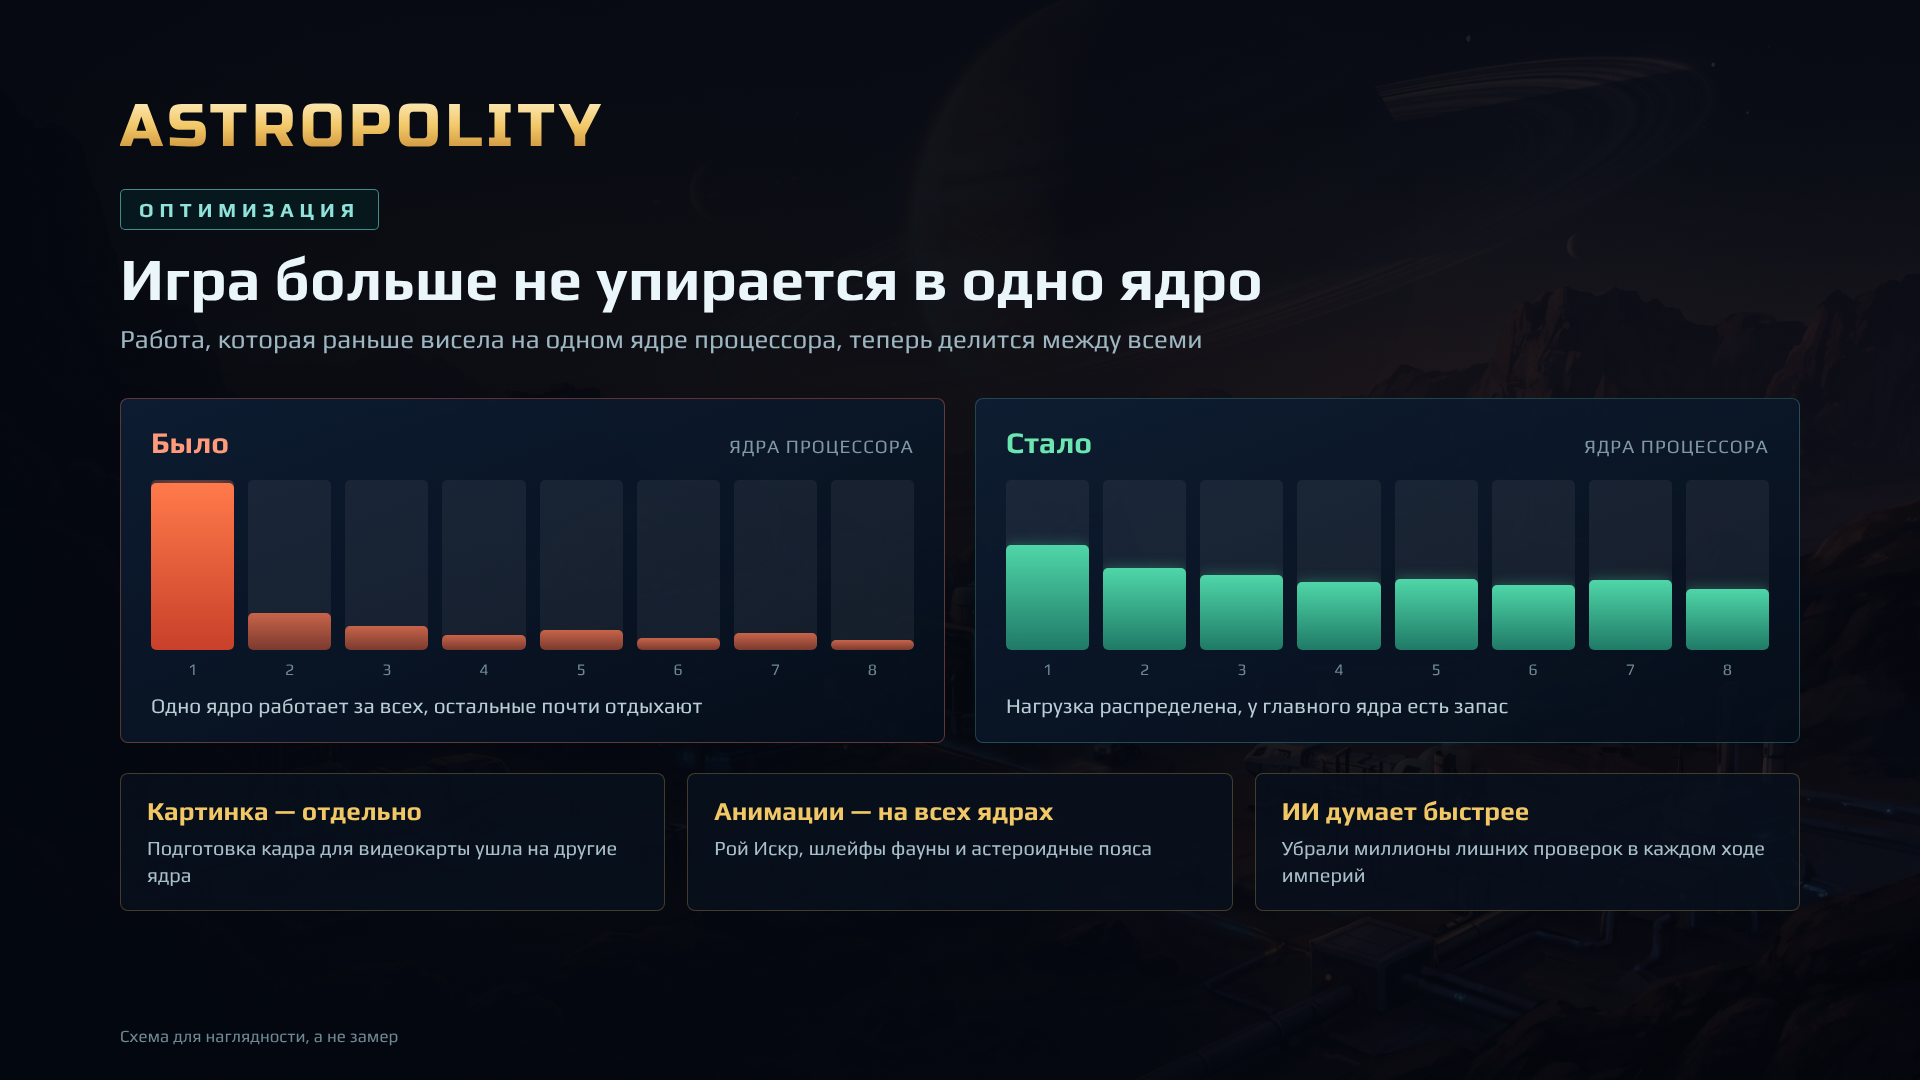
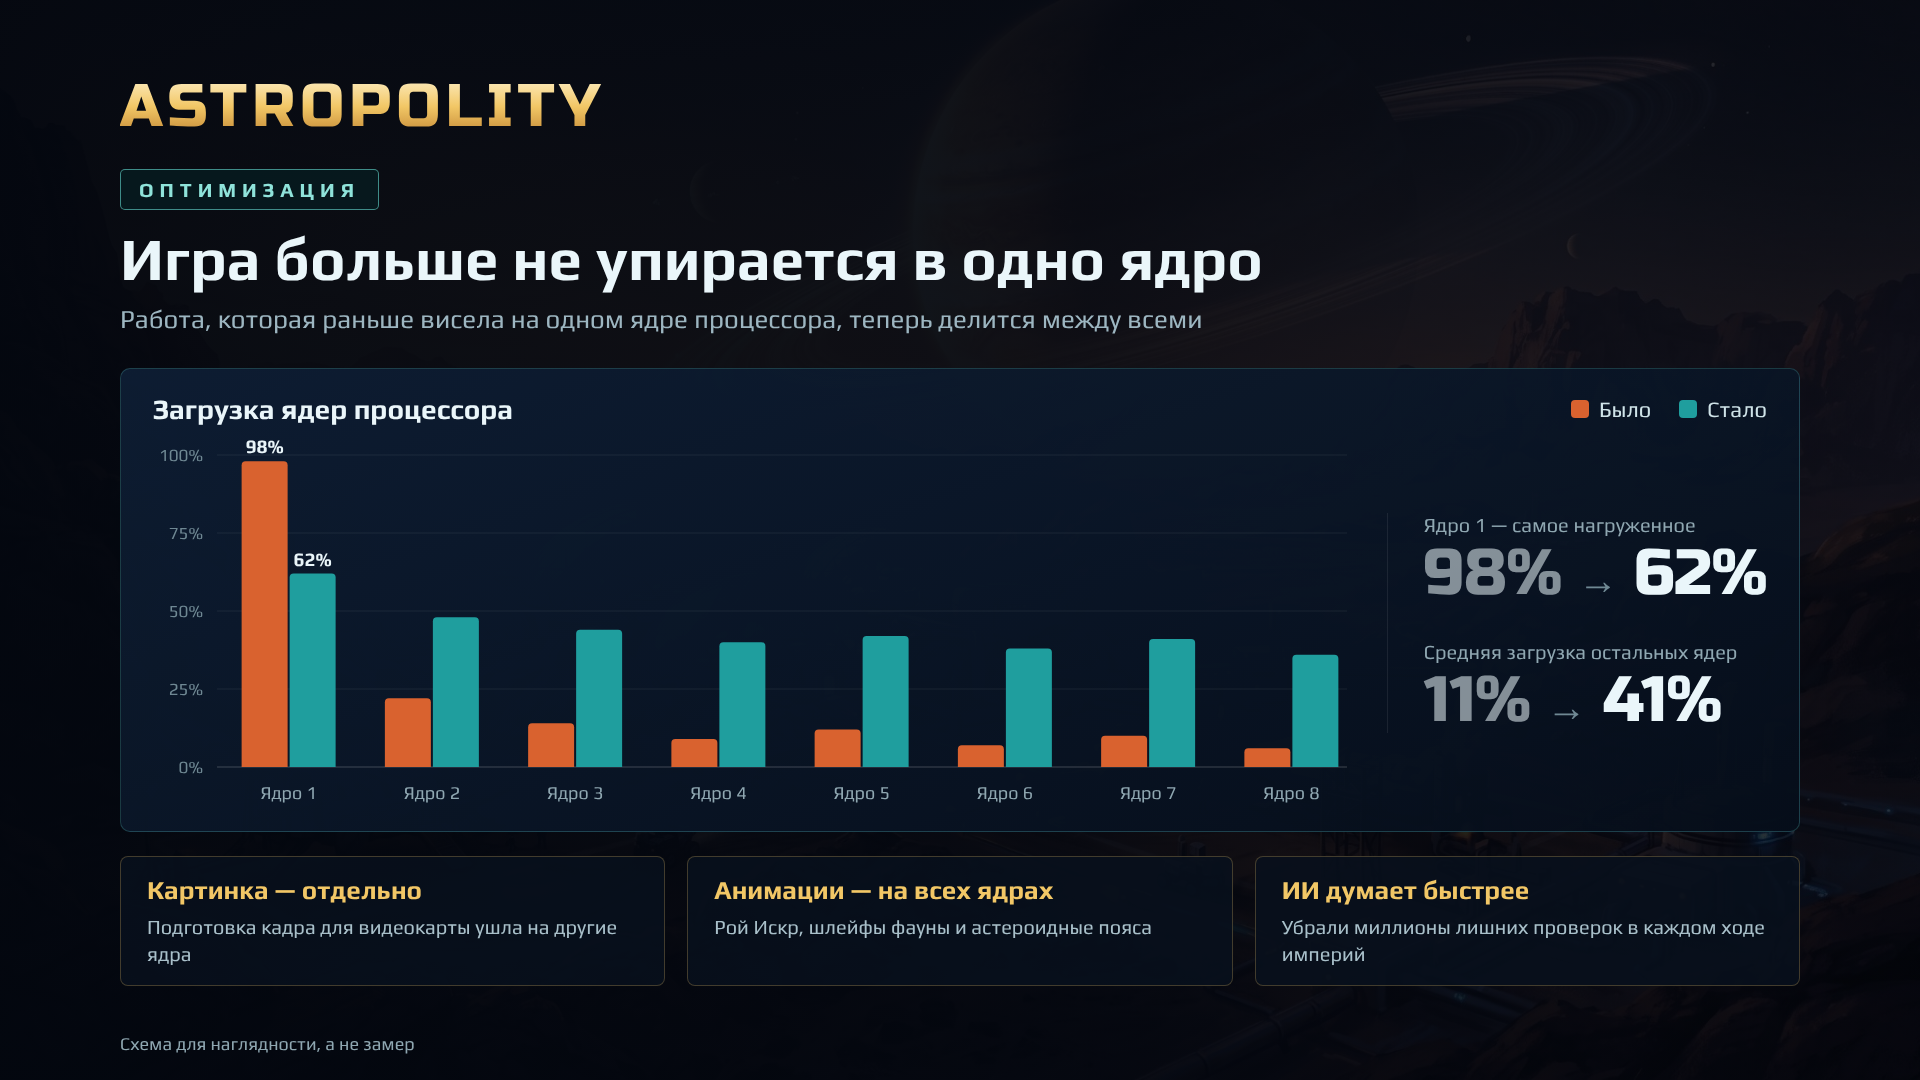
Новость ВК: новый график загрузки ядер, данные и подпись замера задаются в одном месте
Claude-Session: https://claude.ai/code/session_01MBQ4JGpUh1c6nHPDeTgt1b

diff --git a/Tools/news/perf_cores.html b/Tools/news/perf_cores.html
@@ -10,7 +10,7 @@ body { width: 1920px; height: 1080px; overflow: hidden; background: #03070F; fon
 #cover { position: relative; width: 1920px; height: 1080px; overflow: hidden; background: #03070F; }
 .space { position: absolute; inset: 0; background: url(../../Assets/Resources/UI/LoadingArt_3.jpg) 70% 50%/cover; filter: brightness(0.5) saturate(1.05); }
 .fade { position: absolute; inset: 0; background: linear-gradient(90deg, rgba(3,7,15,0.96) 0%, rgba(3,7,15,0.88) 55%, rgba(3,7,15,0.6) 100%); }
-.wrap { position: absolute; left: 120px; top: 90px; right: 120px; }
+.wrap { position: absolute; left: 120px; top: 70px; right: 120px; }
 .logo { font-family: Russo; font-size: 60px; letter-spacing: 5px;
   background: linear-gradient(180deg, #FFF6D8 0%, #F2C766 50%, #B97A2A 100%); -webkit-background-clip: text; color: transparent; }
 .tag { display: inline-block; margin-top: 26px; padding: 8px 18px; border: 1px solid rgba(102,219,209,0.6); border-radius: 5px;
@@ -18,30 +18,25 @@ body { width: 1920px; height: 1080px; overflow: hidden; background: #03070F; fon
 .title { font-weight: 700; font-size: 60px; margin-top: 16px; line-height: 1.1; }
 .sub { font-size: 26px; color: #9DB6C1; margin-top: 12px; }
 
-.cpu { display: flex; gap: 30px; margin-top: 44px; }
-.panel { flex: 1; padding: 26px 30px 24px; border-radius: 8px; border: 1px solid rgba(102,219,209,0.25);
-  background: linear-gradient(160deg, rgba(14,30,52,0.92), rgba(6,14,26,0.92)); }
-.panel.before { border-color: rgba(255,120,90,0.35); }
-.ph { display: flex; justify-content: space-between; align-items: baseline; }
-.ph b { font-weight: 700; font-size: 30px; }
-.before .ph b { color: #FF9A7A; }
-.after .ph b { color: #6BE6B0; }
-.ph span { font-size: 19px; color: #7F98A3; letter-spacing: 1px; }
-.bars { display: flex; gap: 14px; height: 170px; align-items: flex-end; margin-top: 20px; }
-.bar { flex: 1; height: 100%; border-radius: 5px; background: rgba(255,255,255,0.06); position: relative; overflow: hidden; }
-.bar i { position: absolute; left: 0; right: 0; bottom: 0; border-radius: 5px; }
-.before .bar i { background: linear-gradient(0deg, #7A3A2E, #C8644A); }
-.before .bar.hot i { background: linear-gradient(0deg, #C8402A, #FF7A4A); box-shadow: 0 0 22px rgba(255,110,70,0.7); }
-.after .bar i { background: linear-gradient(0deg, #1F7A66, #4FD6A8); box-shadow: 0 0 14px rgba(80,220,170,0.35); }
-.lbl { display: flex; gap: 14px; margin-top: 10px; }
-.lbl div { flex: 1; text-align: center; font-size: 16px; color: #6F8893; }
-.cap { margin-top: 14px; font-size: 21px; color: #B9CDD5; }
-
-.items { display: flex; gap: 22px; margin-top: 30px; }
-.item { flex: 1; padding: 22px 26px; border-radius: 8px; border: 1px solid rgba(242,199,102,0.25); background: rgba(8,16,28,0.88); }
+.chart { margin-top: 34px; padding: 24px 32px 18px; border-radius: 10px; border: 1px solid rgba(102,219,209,0.22);
+  background: linear-gradient(160deg, rgba(14,30,52,0.94), rgba(6,14,26,0.94)); }
+.chead { display: flex; justify-content: space-between; align-items: center; }
+.chead b { font-weight: 700; font-size: 28px; }
+.legend { display: flex; gap: 28px; font-size: 22px; color: #CFE3E8; }
+.legend span { display: flex; align-items: center; gap: 10px; }
+.sw { width: 18px; height: 18px; border-radius: 4px; display: inline-block; }
+.sw.before { background: #D9622F; } .sw.after { background: #1F9E9E; }
+.cbody { display: flex; align-items: center; gap: 40px; margin-top: 8px; }
+.hero { flex: 1; padding-left: 36px; border-left: 1px solid rgba(255,255,255,0.08); }
+.hk { font-size: 20px; color: #8FA7B1; }
+.hv { display: flex; align-items: baseline; gap: 16px; margin-top: 6px; font-family: Russo; font-size: 64px; line-height: 1; }
+.hv em { font-style: normal; font-size: 40px; color: #6F8893; }
+.hb { color: #EAF6FA; opacity: 0.55; } .ha { color: #EAF6FA; }
+.items { display: flex; gap: 22px; margin-top: 24px; }
+.item { flex: 1; padding: 18px 26px; border-radius: 8px; border: 1px solid rgba(242,199,102,0.25); background: rgba(8,16,28,0.88); }
 .item b { display: block; font-weight: 700; font-size: 26px; color: #F2C766; }
 .item span { display: block; font-size: 20px; color: #A9C0CA; margin-top: 8px; line-height: 1.35; }
-.note { position: absolute; left: 120px; bottom: 34px; font-size: 17px; color: #6F8893; }
+.note { position: absolute; left: 120px; bottom: 26px; font-size: 18px; color: #8FA7B1; }
 </style></head>
 <body><div id="cover">
   <div class="space"></div><div class="fade"></div>
@@ -50,36 +45,19 @@ body { width: 1920px; height: 1080px; overflow: hidden; background: #03070F; fon
     <div class="tag">ОПТИМИЗАЦИЯ</div>
     <div class="title">Игра больше не упирается в одно ядро</div>
     <div class="sub">Работа, которая раньше висела на одном ядре процессора, теперь делится между всеми</div>
-    <div class="cpu">
-      <div class="panel before">
-        <div class="ph"><b>Было</b><span>ЯДРА ПРОЦЕССОРА</span></div>
-        <div class="bars">
-          <div class="bar hot"><i style="height:98%"></i></div>
-          <div class="bar"><i style="height:22%"></i></div>
-          <div class="bar"><i style="height:14%"></i></div>
-          <div class="bar"><i style="height:9%"></i></div>
-          <div class="bar"><i style="height:12%"></i></div>
-          <div class="bar"><i style="height:7%"></i></div>
-          <div class="bar"><i style="height:10%"></i></div>
-          <div class="bar"><i style="height:6%"></i></div>
-        </div>
-        <div class="lbl"><div>1</div><div>2</div><div>3</div><div>4</div><div>5</div><div>6</div><div>7</div><div>8</div></div>
-        <div class="cap">Одно ядро работает за всех, остальные почти отдыхают</div>
+    <div class="chart">
+      <div class="chead">
+        <b>Загрузка ядер процессора</b>
+        <div class="legend"><span><i class="sw before"></i>Было</span><span><i class="sw after"></i>Стало</span></div>
       </div>
-      <div class="panel after">
-        <div class="ph"><b>Стало</b><span>ЯДРА ПРОЦЕССОРА</span></div>
-        <div class="bars">
-          <div class="bar"><i style="height:62%"></i></div>
-          <div class="bar"><i style="height:48%"></i></div>
-          <div class="bar"><i style="height:44%"></i></div>
-          <div class="bar"><i style="height:40%"></i></div>
-          <div class="bar"><i style="height:42%"></i></div>
-          <div class="bar"><i style="height:38%"></i></div>
-          <div class="bar"><i style="height:41%"></i></div>
-          <div class="bar"><i style="height:36%"></i></div>
+      <div class="cbody">
+        <svg id="plot" width="1220" height="380"></svg>
+        <div class="hero">
+          <div class="hk">Ядро 1 — самое нагруженное</div>
+          <div class="hv"><span class="hb" id="h1b"></span><em>→</em><span class="ha" id="h1a"></span></div>
+          <div class="hk" style="margin-top:34px">Средняя загрузка остальных ядер</div>
+          <div class="hv"><span class="hb" id="h2b"></span><em>→</em><span class="ha" id="h2a"></span></div>
         </div>
-        <div class="lbl"><div>1</div><div>2</div><div>3</div><div>4</div><div>5</div><div>6</div><div>7</div><div>8</div></div>
-        <div class="cap">Нагрузка распределена, у главного ядра есть запас</div>
       </div>
     </div>
     <div class="items">
@@ -88,5 +66,43 @@ body { width: 1920px; height: 1080px; overflow: hidden; background: #03070F; fon
       <div class="item"><b>ИИ думает быстрее</b><span>Убрали миллионы лишних проверок в каждом ходе империй</span></div>
     </div>
   </div>
-  <div class="note">Схема для наглядности, а не замер</div>
-</div></body></html>
+  <div class="note" id="note"></div>
+</div>
+<script>
+// ДАННЫЕ ГРАФИКА. Подставьте свой замер (средняя загрузка каждого ядра, %), а в source — чем и на чём мерили,
+// например: "Замер: Ryzen 7 5800X, галактика 600 систем, 2260 год, ×4". Пока source пустой — на картинке пишется «схема».
+const DATA = {
+  before: [98, 22, 14, 9, 12, 7, 10, 6],
+  after:  [62, 48, 44, 40, 42, 38, 41, 36],
+  source: ""
+};
+(function () {
+  const svg = document.getElementById('plot'), NS = 'http://www.w3.org/2000/svg';
+  const W = 1220, H = 380, L = 64, R = 10, T = 22, B = 46, ph = H - T - B, n = DATA.before.length;
+  const el = (t, a, txt) => { const e = document.createElementNS(NS, t); for (const k in a) e.setAttribute(k, a[k]); if (txt != null) e.textContent = txt; svg.appendChild(e); return e; };
+  const y = v => T + ph * (1 - v / 100);
+  for (const v of [0, 25, 50, 75, 100]) {
+    el('line', { x1: L, x2: W - R, y1: y(v), y2: y(v), stroke: v ? 'rgba(255,255,255,0.07)' : 'rgba(255,255,255,0.22)', 'stroke-width': 1 });
+    el('text', { x: L - 14, y: y(v) + 6, 'text-anchor': 'end', fill: '#6F8893', 'font-size': 17, 'font-family': 'Play' }, v + '%');
+  }
+  const gw = (W - L - R) / n, bw = Math.min(46, gw * 0.34), gap = 2;
+  const bar = (x, v, c) => { const h = ph * v / 100, r = Math.min(4, h / 2);
+    el('path', { d: `M${x},${y(0)} V${y(v) + r} Q${x},${y(v)} ${x + r},${y(v)} H${x + bw - r} Q${x + bw},${y(v)} ${x + bw},${y(v) + r} V${y(0)} Z`, fill: c }); };
+  for (let i = 0; i < n; i++) {
+    const cx = L + gw * (i + 0.5);
+    bar(cx - bw - gap / 2, DATA.before[i], '#D9622F');
+    bar(cx + gap / 2, DATA.after[i], '#1F9E9E');
+    el('text', { x: cx, y: H - 14, 'text-anchor': 'middle', fill: '#8FA7B1', 'font-size': 18, 'font-family': 'Play' }, 'Ядро ' + (i + 1));
+  }
+  // подписи значений — только у самого нагруженного ядра
+  const c0 = L + gw * 0.5;
+  el('text', { x: c0 - bw / 2 - gap / 2, y: y(DATA.before[0]) - 8, 'text-anchor': 'middle', fill: '#EAF6FA', 'font-size': 19, 'font-weight': 700, 'font-family': 'Play' }, DATA.before[0] + '%');
+  el('text', { x: c0 + bw / 2 + gap / 2, y: y(DATA.after[0]) - 8, 'text-anchor': 'middle', fill: '#EAF6FA', 'font-size': 19, 'font-weight': 700, 'font-family': 'Play' }, DATA.after[0] + '%');
+  const avg = a => Math.round(a.slice(1).reduce((s, v) => s + v, 0) / (a.length - 1));
+  document.getElementById('h1b').textContent = DATA.before[0] + '%';
+  document.getElementById('h1a').textContent = DATA.after[0] + '%';
+  document.getElementById('h2b').textContent = avg(DATA.before) + '%';
+  document.getElementById('h2a').textContent = avg(DATA.after) + '%';
+  document.getElementById('note').textContent = DATA.source || 'Схема для наглядности, а не замер';
+})();
+</script></body></html>
